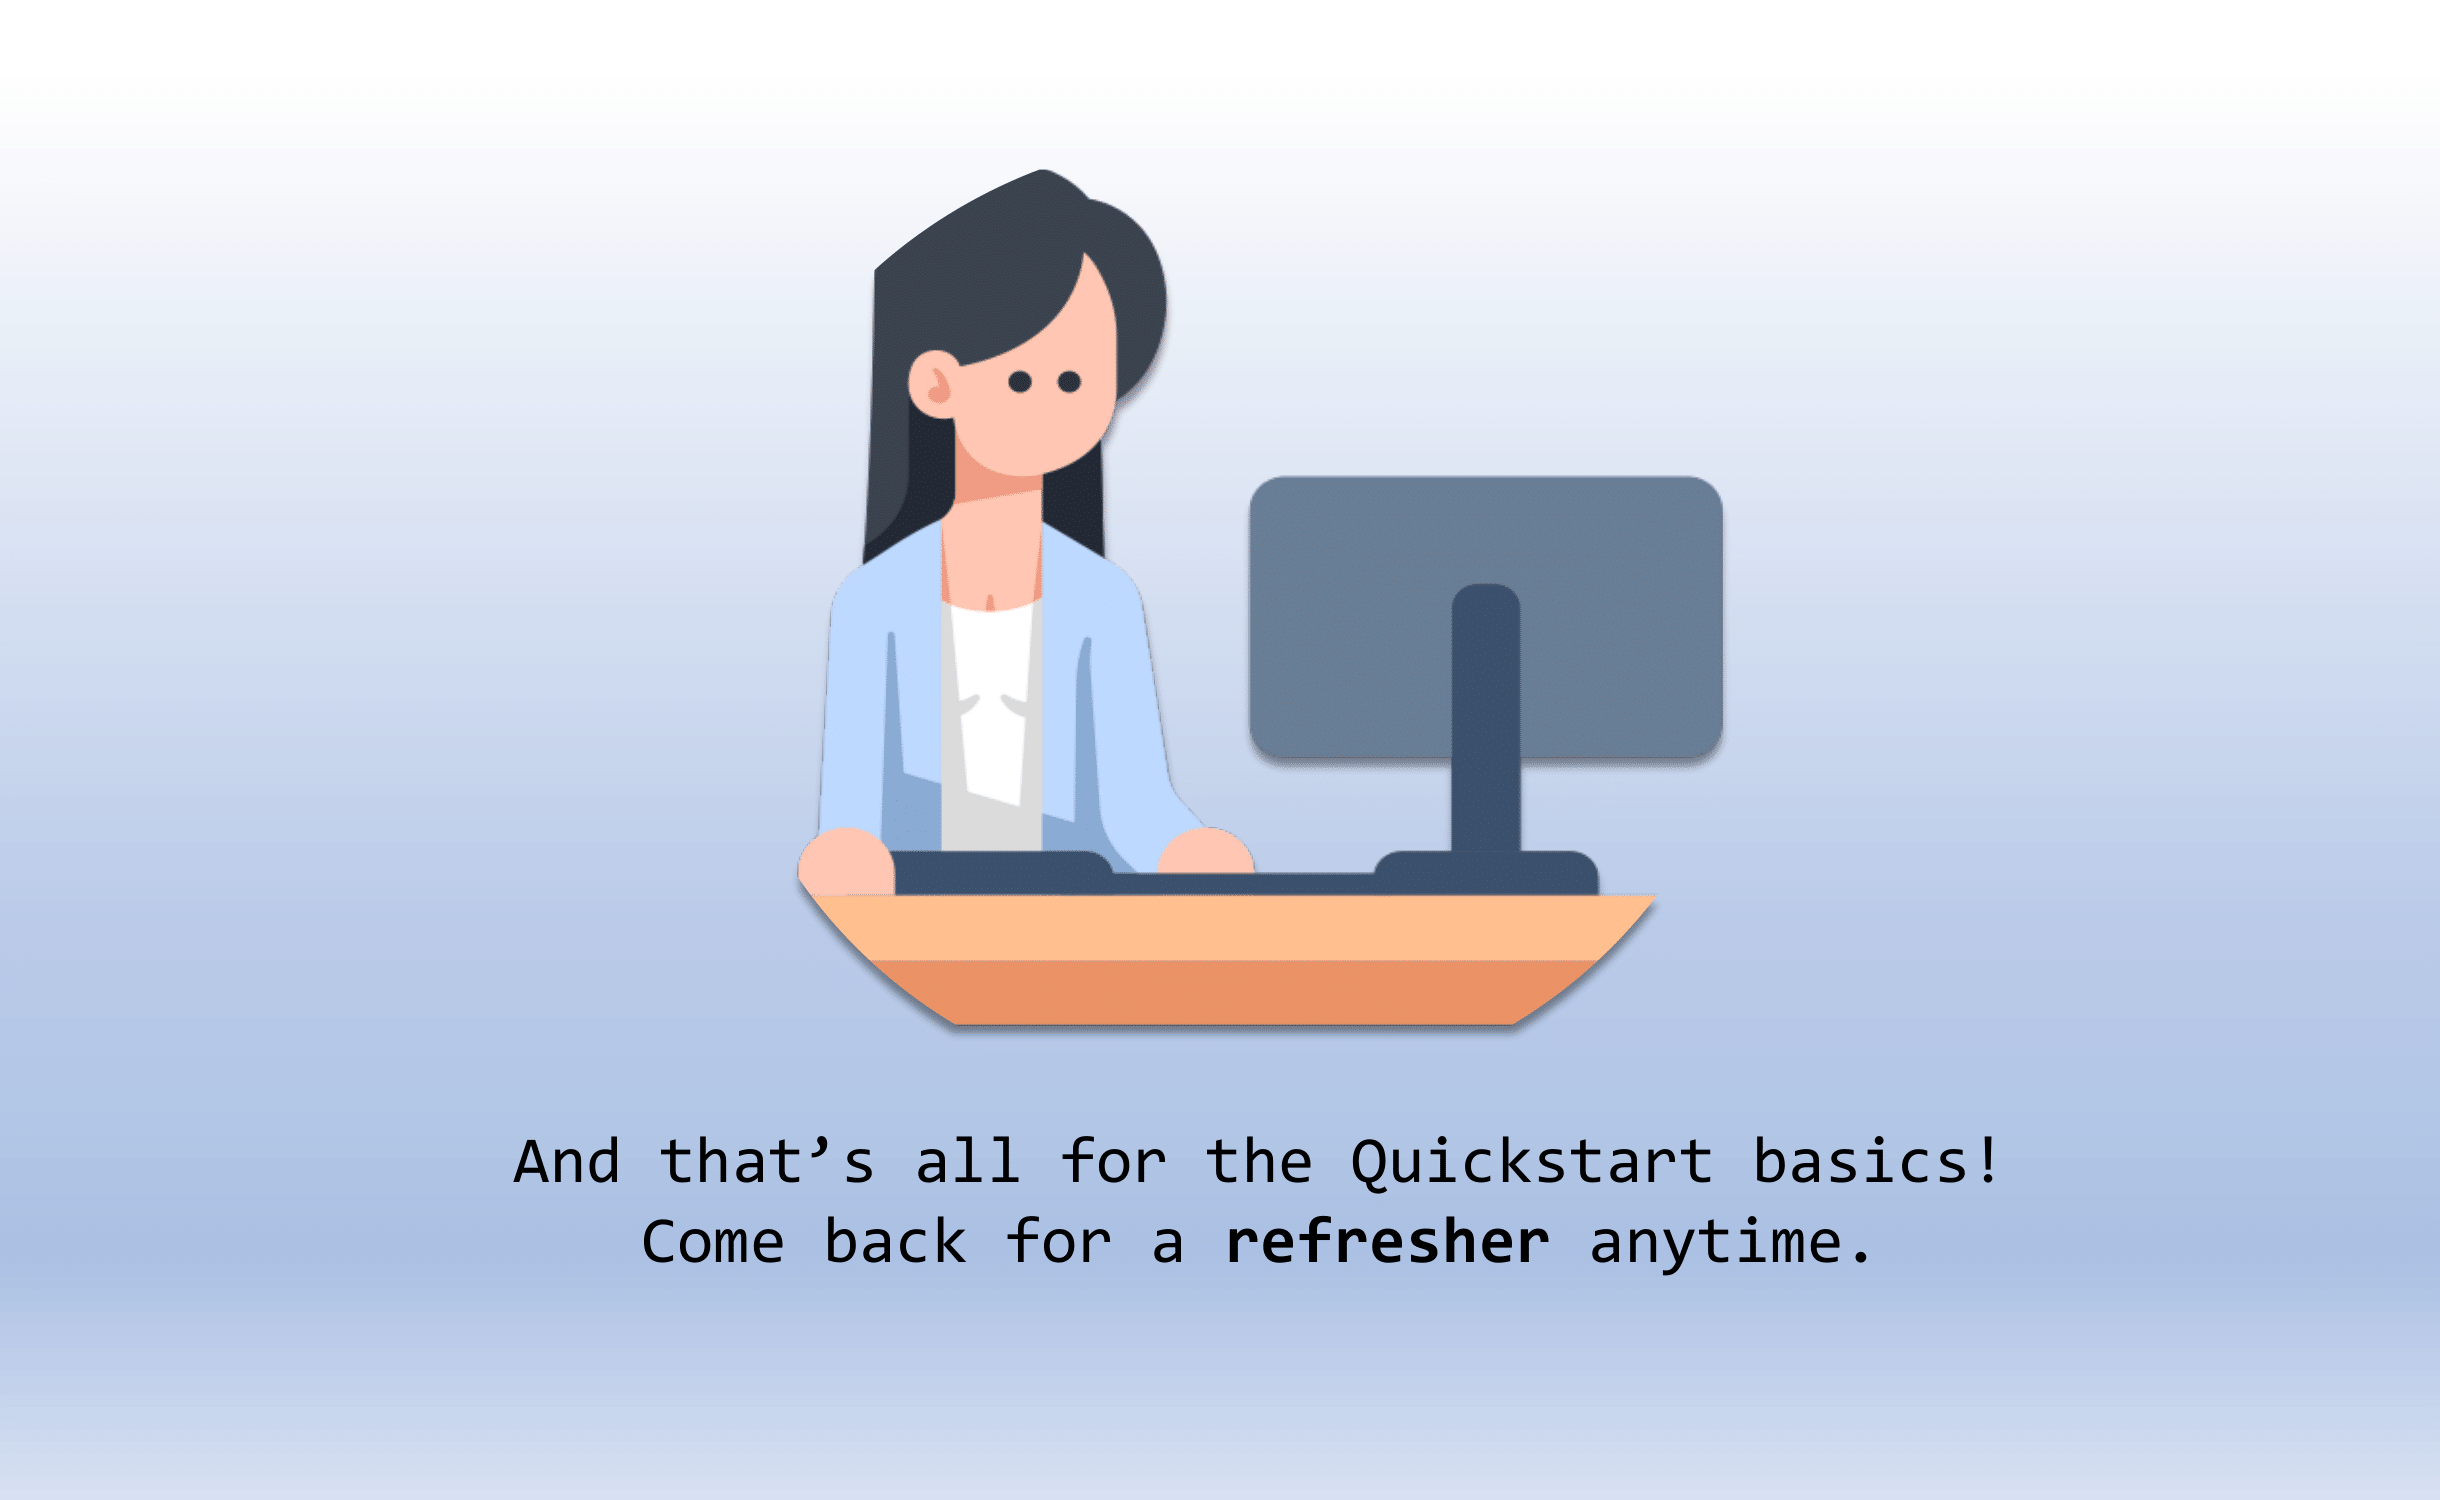
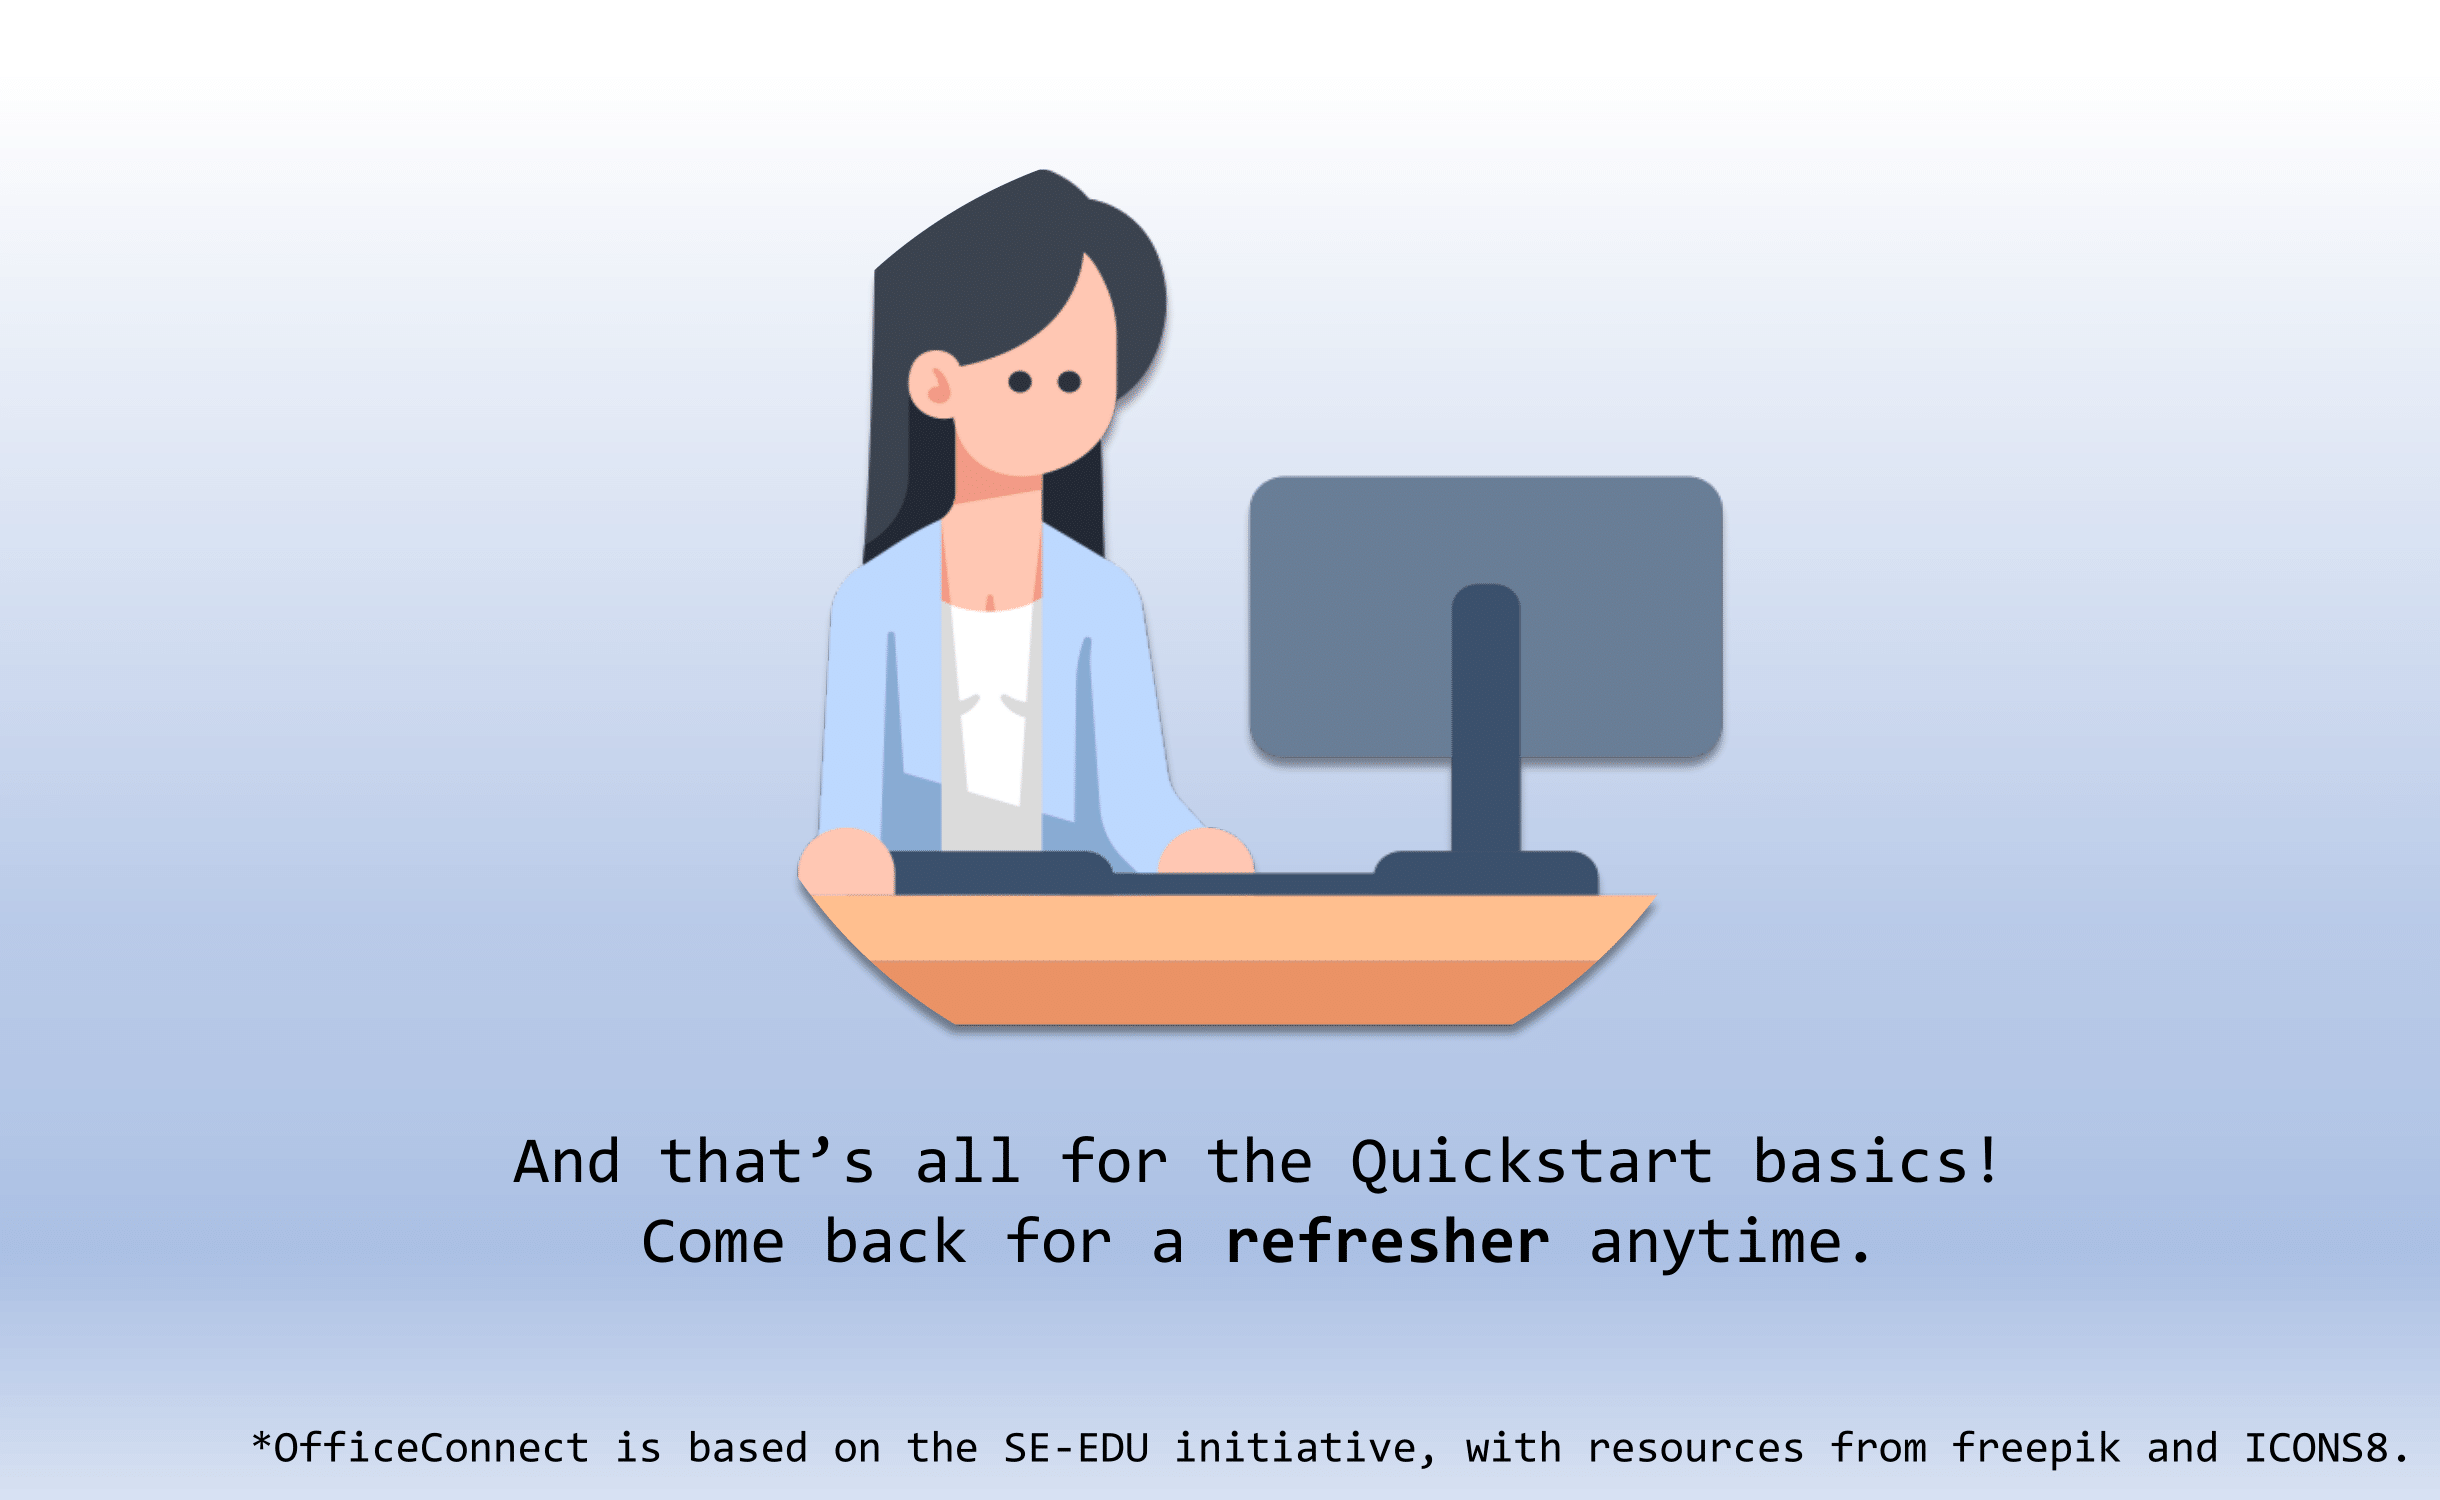
Updated quickstart to include credits from parties

Changed region(s): [[0.0934, 0.9507, 0.9967, 0.9813]]

diff --git a/src/main/java/seedu/address/ui/HelpStrings.java b/src/main/java/seedu/address/ui/HelpStrings.java
@@ -5,7 +5,8 @@ package seedu.address.ui;
  */
 public class HelpStrings {
     public static final String HELP_MESSAGE = "For more help, Refer to the user guide: " + HelpStrings.USERGUIDE_URL;
-
+    public static final String CREDITS_MESSAGE =
+            "This project was based on the SE-EDU Initiative, using resources from ICON8 and freepik. Enjoy!";
     public static final String USERGUIDE_URL = "\nhttps://ay2223s2-cs2103-f10-1.github.io/tp/UserGuide.html";
     public static final String ADDMETHODS_HELP = "Nested within addmethods are the methods that you "
             + "can use for adding tasks, and people.";

diff --git a/docs/DeveloperGuide.md b/docs/DeveloperGuide.md
@@ -391,6 +391,9 @@ Purpose: Provides users with a bird's eye view of the various methods usable in 
 
 #### 3.7.1 Implementation
 
+This window was made by the `HelpWindow` class, which ties in its respective `fxml` and `css` files to display the relevant UI to the user.
+To provide the instructions to the user, a `HelpStrings` class is maintained to give instructions stored in lengthy strings.
+
 A Help Window will be opened either by entering the `help` command, or by clicking on "Help" button in the toolbar.
 The Activity Diagram below details the workflow of a user who wishes to access the HelpWindow. If the Help Window does not provide enough
 information, the user can choose to view the comprehensive User Guide instead.
@@ -480,6 +483,16 @@ Below is an activity diagram that illustrates how a user finds all persons with 
 * **Alternative 2:** Allow multiple tags
   * Pros: Allows users to search for more than one tag at once, which increases convenience and flexibility.
   * Cons: Could produce many search results which may clutter up the GUI (as opposed to searching for only one task). More prone to bugs.
+
+### 3.11 Quickstart Window
+Syntax: `quickstart`  
+Purpose: Allows new users to better understand how OfficeConnect works.
+
+#### 3.11.1 Implementation
+Similar to Help Window in section 3.7, this window is maintained by `QuickstartWindow` class, which also maintains 
+similarly named `fxml` and `css` to display the relevant quickstart information.
+
+Users will be shown a guide 
 
 --------------------------------------------------------------------------------------------------------------------
 ## 4. Documentation, logging, testing, configuration, dev-ops
@@ -747,7 +760,7 @@ feature would work in practice.
 
 4. OfficeConnect presents information on said command to user.
 
-5. User reads closes window after getting required info.
+5. User reads closes window after retrieving required info.
 
    Use case ends.
 
